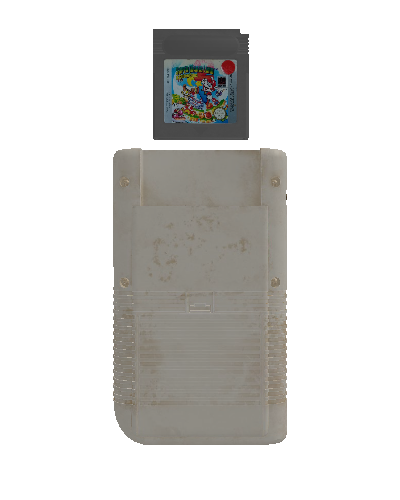
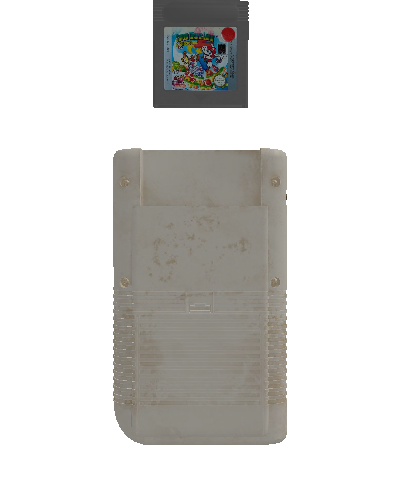
Smoother launch (46 frames) + deeper cartridge seating (v1.0.35)
Re-rendered the launch at 46 frames for smoother playback and lowered the seated slot so the cartridge fully seats (label partly showing, matching the reference).

Changed region(s): [[0.36, 0.0, 0.63, 0.3]]

diff --git a/lib/screens/launch3d.dart b/lib/screens/launch3d.dart
@@ -18,7 +18,7 @@ Future<void> showLaunch3D(
   );
 }
 
-const _frameCount = 26; // assets/launch/f00.png .. f25.png
+const _frameCount = 46; // assets/launch/f00.png .. f45.png
 
 class _Launch3D extends StatefulWidget {
   final Game game;
